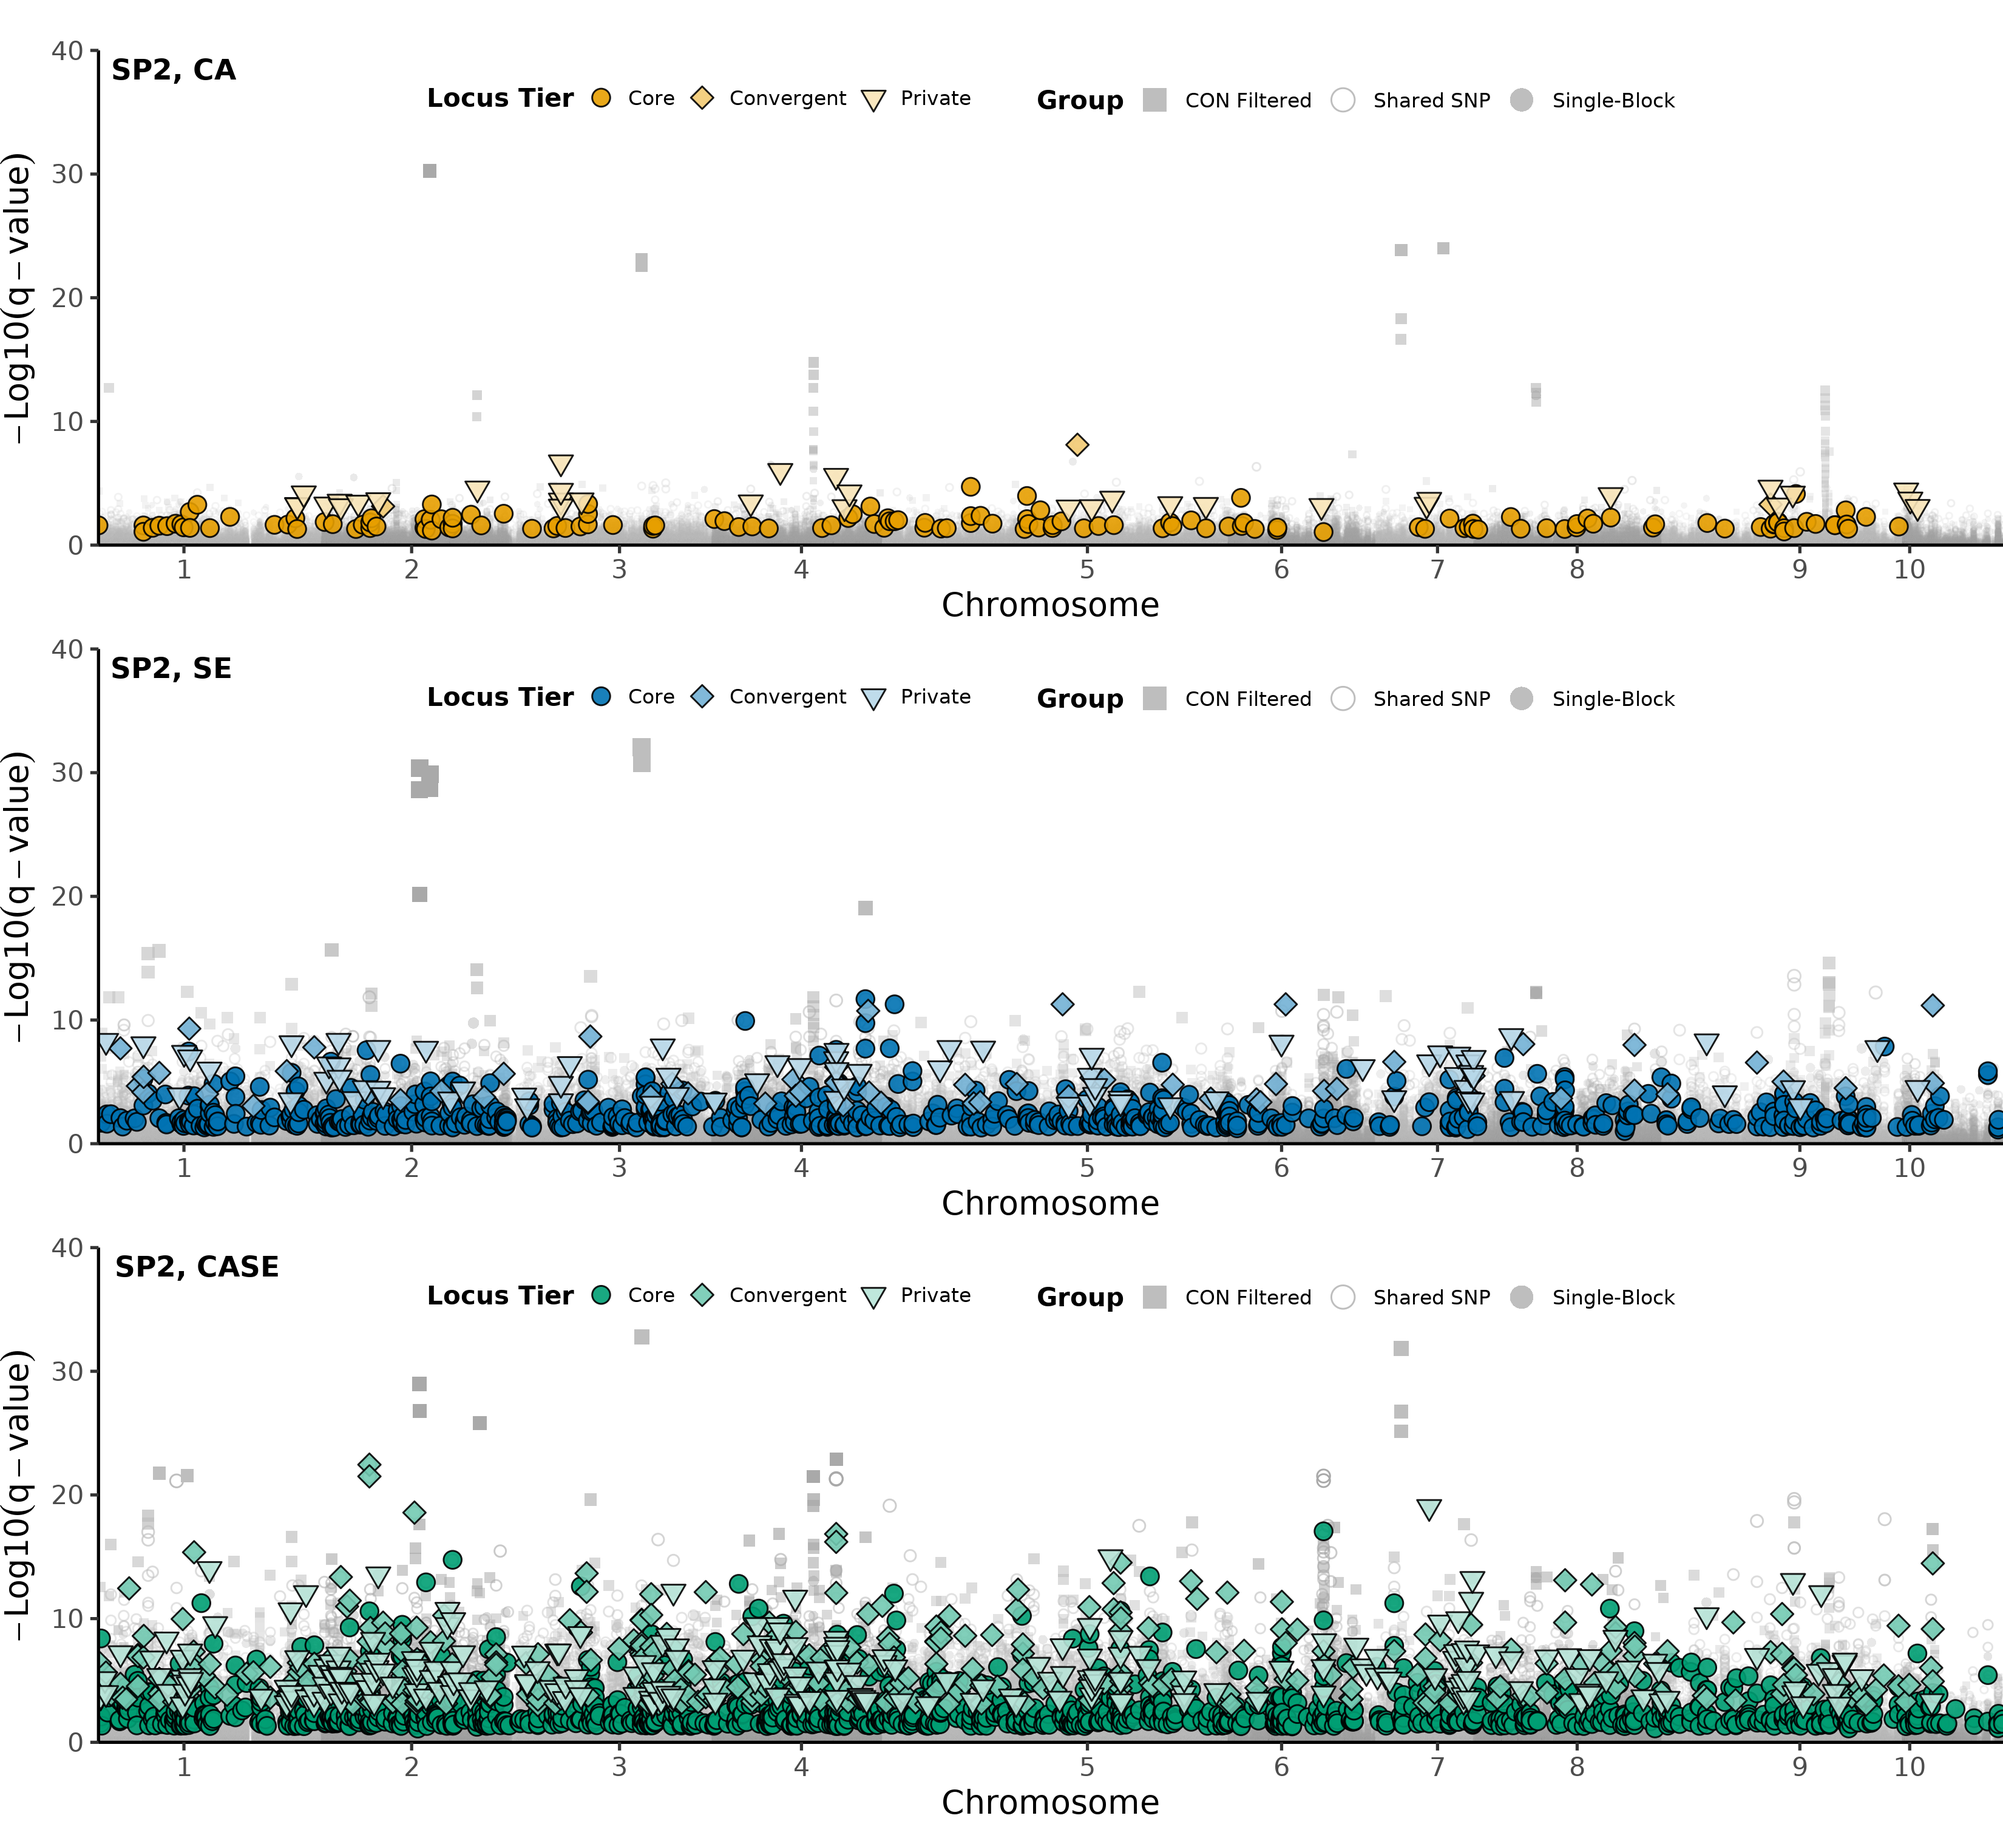
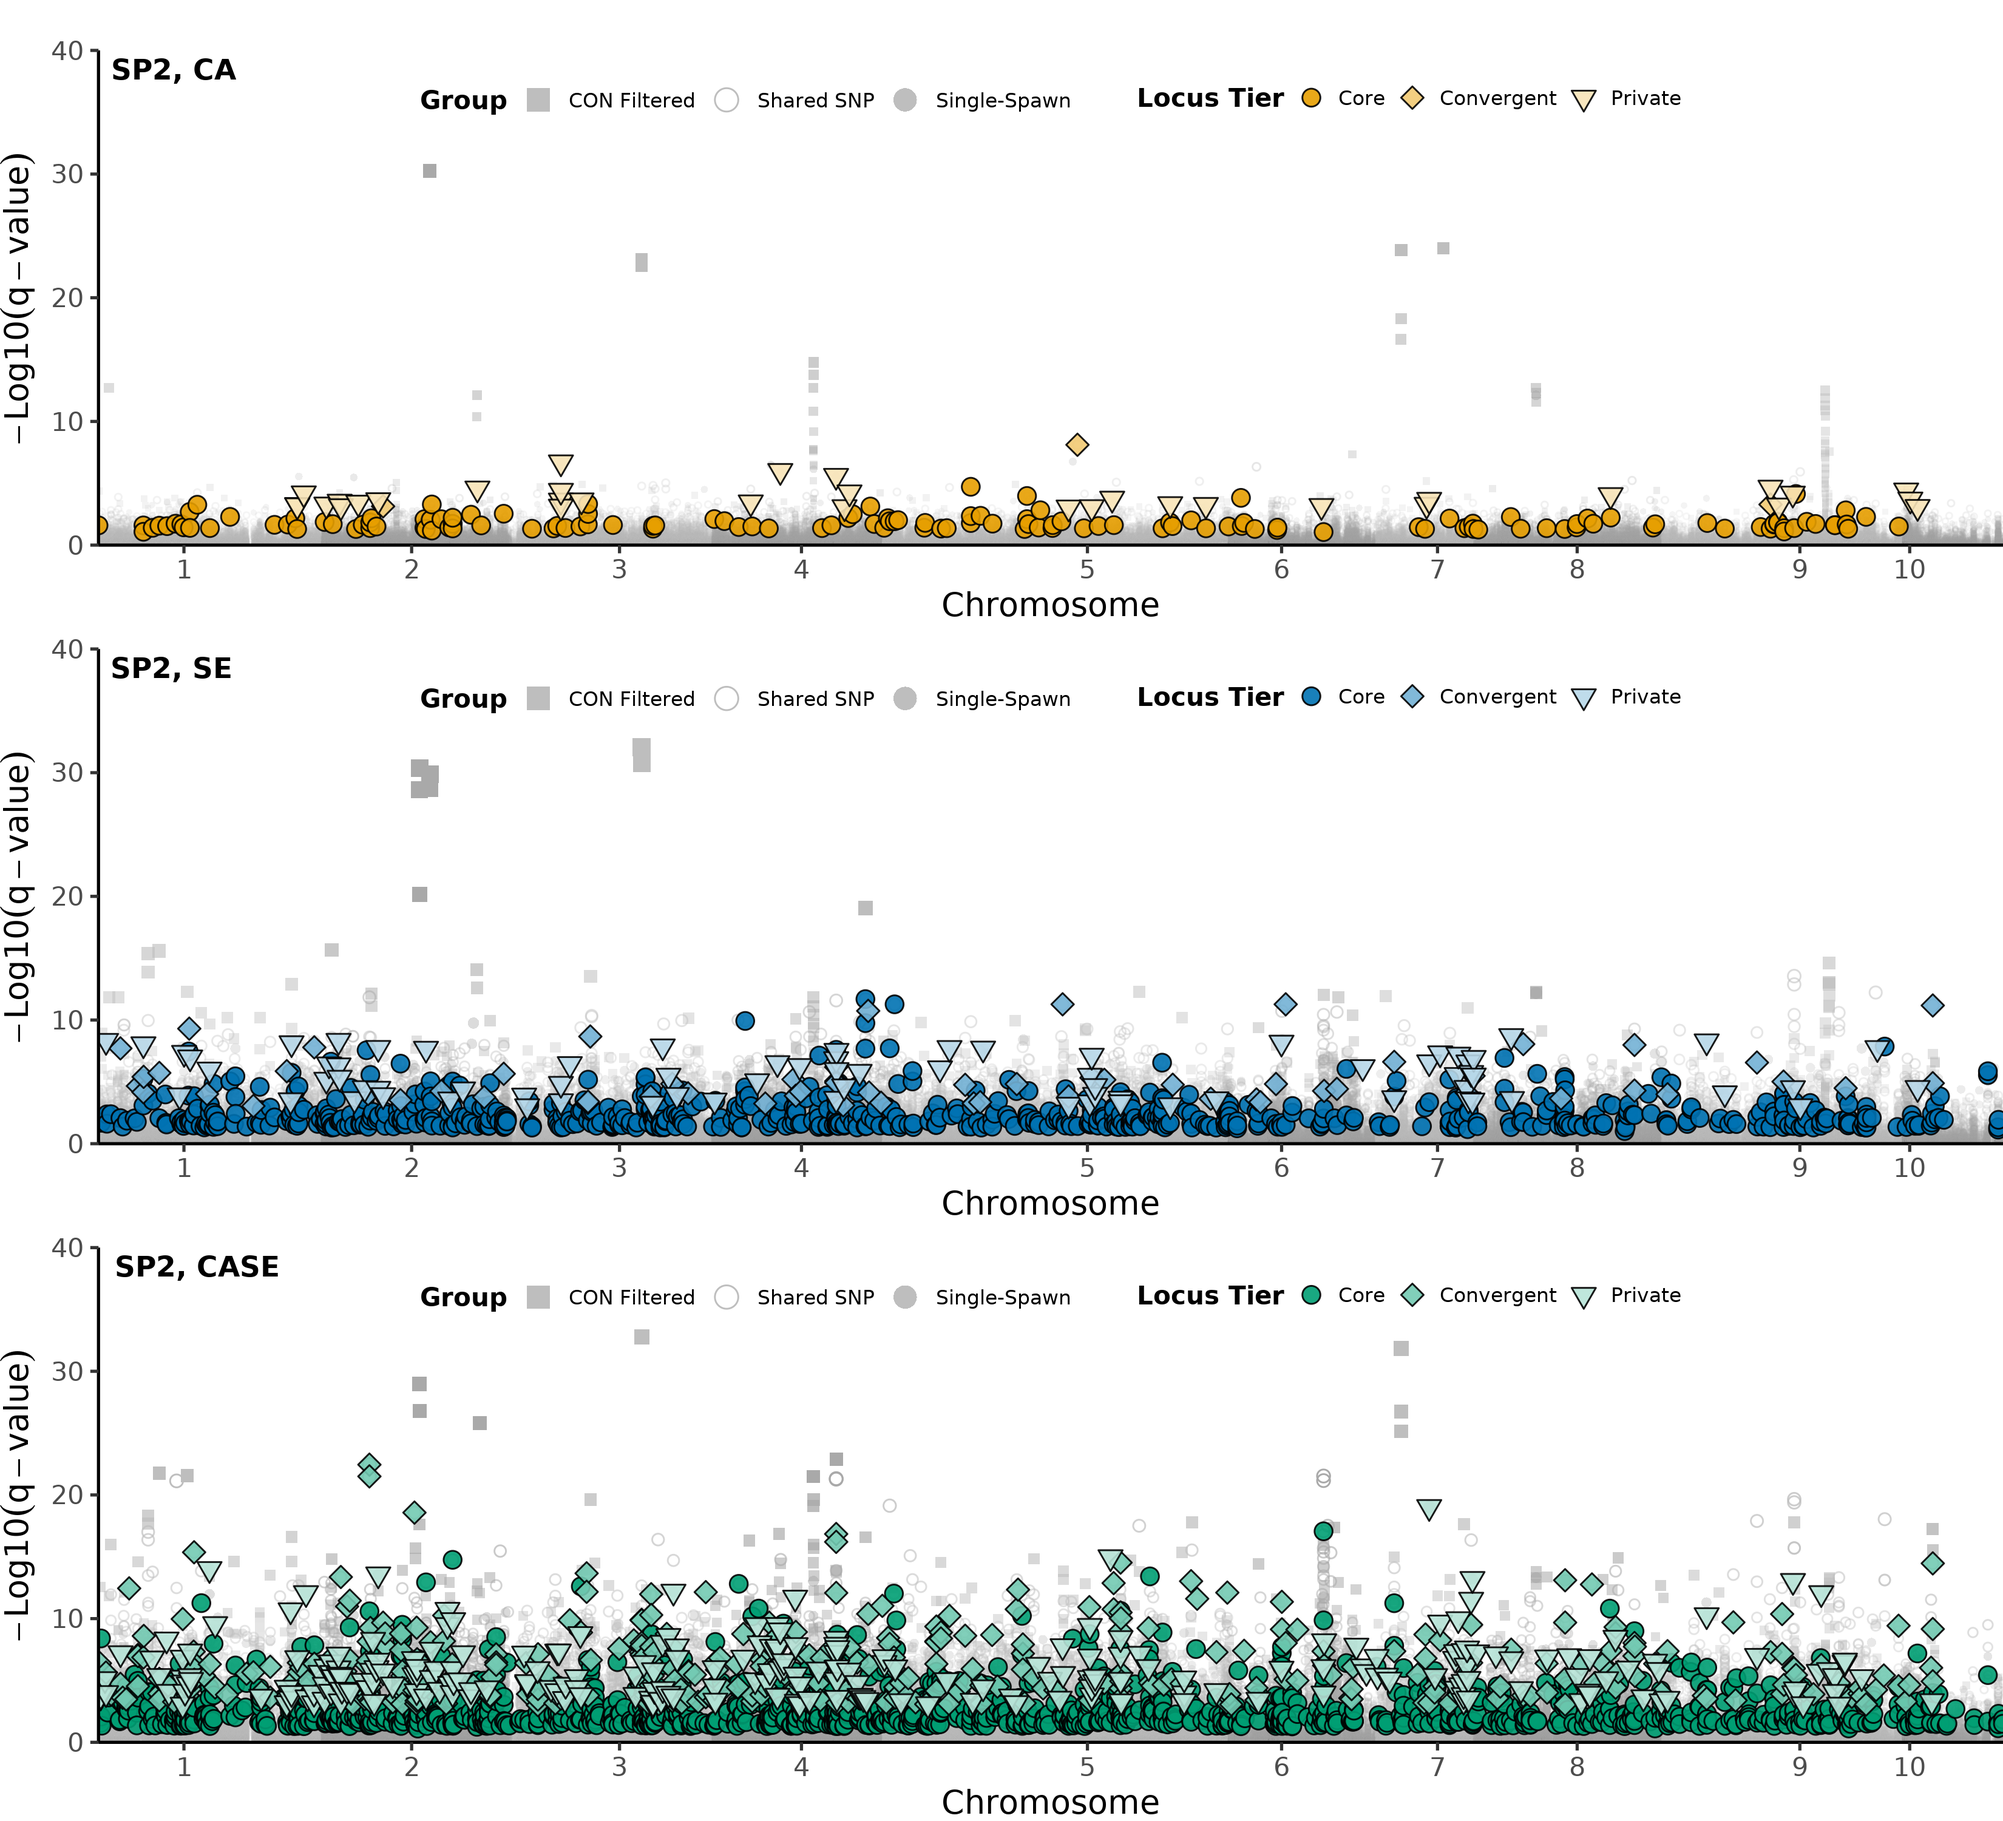
update knit

diff --git a/analysis/Final_reproducible_analysis.md b/analysis/Final_reproducible_analysis.md
@@ -1,7 +1,7 @@
 CASE: Reproducible Analysis (Coastal Acidification and Sewage Effluent)
 ================
 Jonathan Puritz
-2026-10-09
+2026-10-12
 
 - [Setup](#setup)
   - [Software environment](#software-environment)
@@ -7619,7 +7619,7 @@ manhattan_block <- function(pv_df, block_num, treatment_col, qcolumn, base_color
   in_sg <- pp$SNP %in% singleton$SNP
   pp$Group <- dplyr::case_when(pp$SNP %in% con_b ~ "CON Filtered",
     in_ac ~ "CON Filtered", in_cf ~ "CON Filtered",
-    in_sg ~ "Single-Block", TRUE ~ "Shared SNP")
+    in_sg ~ "Single-Spawn", TRUE ~ "Shared SNP")
   man <- ggman(pp, pvalue = qcolumn, chr = "CHR", snp = "SNP", bp = "BP",
                relative.positions = TRUE, sigLine = NA, pointSize = 1.5, title = "", alpha = 0.5)
   dfm <- man[[1]]; dfm$chrom_alt <- factor(dfm$chrom_alt, levels = c(0, 1))
